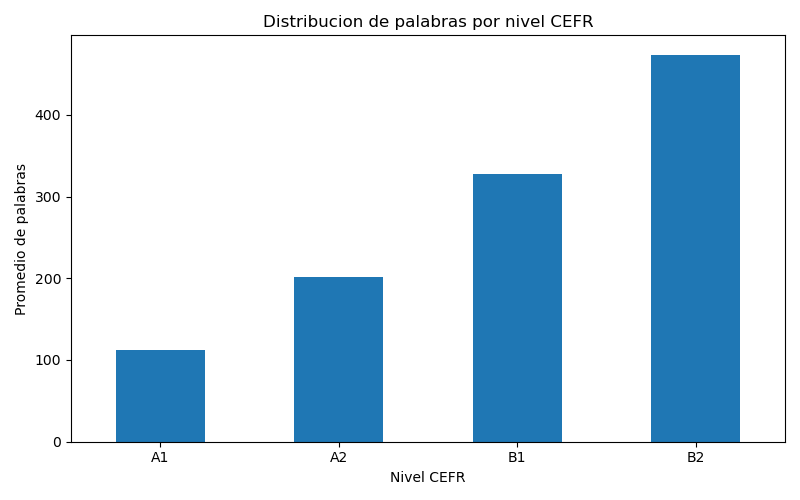
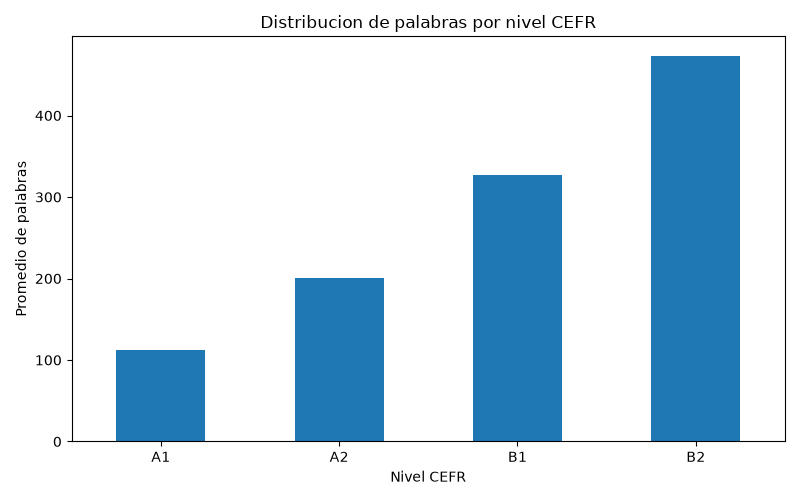
Actualizar main.py a Versión 2 integrada con el módulo de visualizaciones de Heiber

diff --git a/src/main.py b/src/main.py
@@ -1,4 +1,4 @@
-# src/main.py (VERSIÓN 1: MÓDULOS DE JHON ESTEBAN MOLINA - RAMA MAIN)
+# src/main.py (VERSIÓN 2: INTEGRACIÓN COMPLETA - ESTEBAN & HEIBER)
 import sys
 import os
 
@@ -7,38 +7,40 @@ DIR_SRC = os.path.dirname(os.path.abspath(__file__))
 if DIR_SRC not in sys.path:
     sys.path.insert(0, DIR_SRC)
 
-# Importaciones dinámicas a prueba de fallas
-try:
-    from cargar_datos import cargar_lecturas
-    from eda_numpy import calcular_estadisticas_numpy
-    from generar_informe import crear_informe_markdown
-except ImportError:
-    from src.cargar_datos import cargar_lecturas
-    from src.eda_numpy import calcular_estadisticas_numpy
-    from src.generar_informe import crear_informe_markdown
+from cargar_datos import cargar_lecturas
+from eda_numpy import calcular_estadisticas_numpy
+from generar_informe import crear_informe_markdown
 
 def main():
     print("=" * 60)
     print("🚀 PROYECTO IA_TUTORINGLES - SISTEMA DE ANÁLISIS EXPLORATORIO")
-    print("   [VERSIÓN 1: MÓDULOS DE JHON ESTEBAN MOLINA - RAMA MAIN]")
+    print("   [VERSIÓN 2: INTEGRACIÓN COMPLETA - ESTEBAN & HEIBER]")
     print("=" * 60)
 
-    # 1. Carga de Datos
-    print("\n[1/3] Cargando dataset 'data/lecturas_ingles.csv'...")
+    # 1. Carga de Datos (Esteban)
+    print("\n[1/4] Cargando dataset 'data/lecturas_ingles.csv'...")
     datos_completos, array_numerico = cargar_lecturas()
     print(f" -> Se cargaron exitosamente {len(datos_completos)} registros.")
 
-    # 2. Análisis Estadístico con NumPy
-    print("\n[2/3] Calculando estadísticas descriptivas vectorizadas con NumPy...")
+    # 2. Análisis Estadístico con NumPy (Esteban)
+    print("\n[2/4] Calculando estadísticas descriptivas vectorizadas con NumPy...")
     estadisticas = calcular_estadisticas_numpy(array_numerico)
     print(" -> Estadísticas procesadas correctamente con NumPy.")
 
-    # 3. Exportación de Informe Markdown
-    print("\n[3/3] Exportando informe técnico Markdown...")
+    # 3. Visualizaciones Estadísticas con Matplotlib (Heiber Lozano)
+    print("\n[3/4] Generando visualizaciones gráficas en Matplotlib...")
+    try:
+        import visualizaciones
+        print(" -> Gráficos PNG exportados exitosamente en 'graficos/'.")
+    except Exception as e:
+        print(f" -> [AVISO] Ocurrió una advertencia en el módulo de visualizaciones: {e}")
+
+    # 4. Exportación de Informe Markdown (Esteban)
+    print("\n[4/4] Exportando informe técnico Markdown...")
     crear_informe_markdown(estadisticas)
 
     print("\n" + "=" * 60)
-    print("✅ VERSIÓN 1 COMPLETADA SATISFACTORIAMENTE")
+    print("✅ VERSIÓN 2 INTEGRADA COMPLETADA SATISFACTORIAMENTE")
     print("=" * 60)
 
 if __name__ == "__main__":
